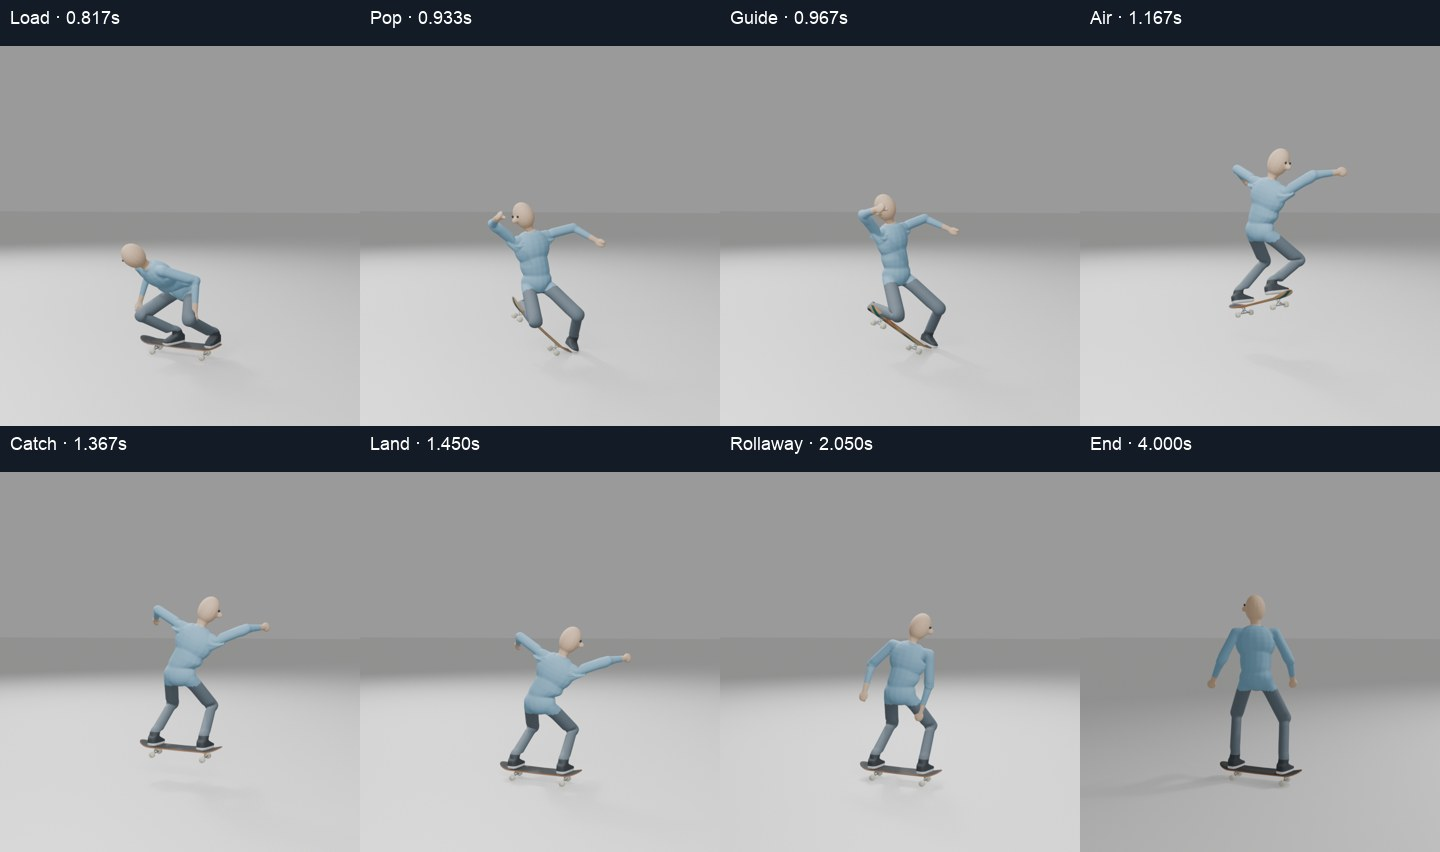
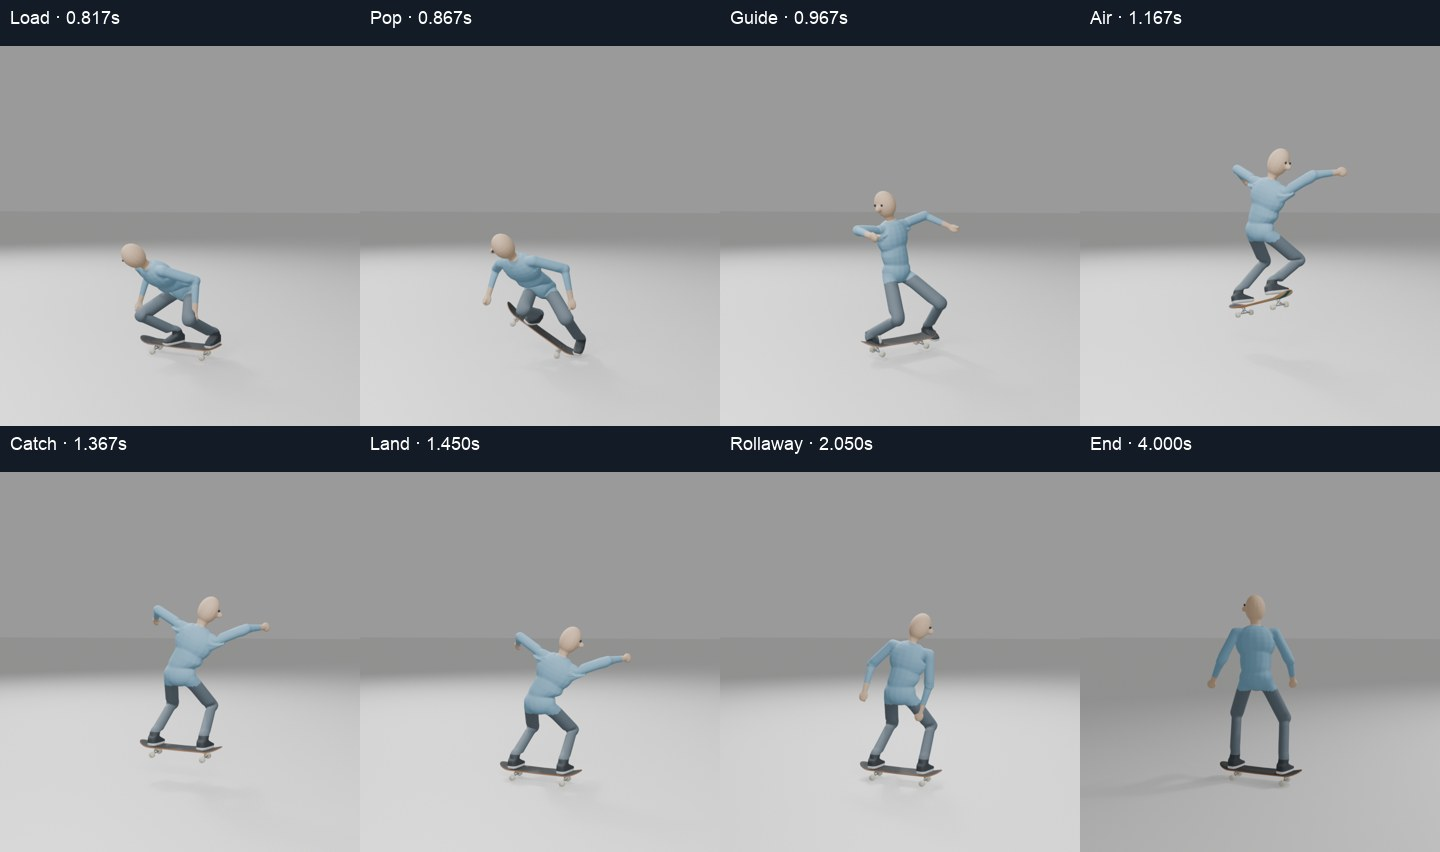
Fix BS180 early snap, front-bolt guide and open Goofy arm (#697)
* Open BS180 pop wind-up and soften early guide pitch

* Keep BS180 early guide over bolts with rising hips

* Refresh BS180 rig sheets for focused pop and wind-up review

* Show same-camera BS180 pop and guide comparisons

* Make BS180 snap early and level through the front-foot drag

* Show corrected BS180 mechanics at the original rejected times

---------

Changed region(s): [[0.3125, 0.2441, 0.4062, 0.4272], [0.5938, 0.3052, 0.6562, 0.4272], [0.5938, 0.2441, 0.6562, 0.3052]]

diff --git a/scripts/author_skate_bs180.py b/scripts/author_skate_bs180.py
@@ -47,7 +47,8 @@ def orientation(a, b, weight):
 
 def board(s, sf):
     yaw = turn_y(scalar(s['sourceYawKeys'], sf))
-    pitch = scalar(s['pitchKeys'], sf) * s['_strikePitch'] / 46
+    pitch = (scalar(s['earlyPitchKeys'], sf) if 'earlyPitchKeys' in s and sf < 54
+             else scalar(s['pitchKeys'], sf) * s['_strikePitch'] / 46)
     rotation = yaw @ turn_x(-pitch)
     f = float(np.clip((sf-s['pop'])/(s['land']-s['pop']), 0, 1))
     height = .5*s['referenceFlight']**2*s['gravity']*f*(1-f)
@@ -129,7 +130,17 @@ def arms(controls, s, sf):
         for part in ['upper', 'fore']:
             observed = unit(curve(times, [r['arms'][side][part] for r in rows], sf))
             authored = unit(s['balance'][side][part])
-            result[side].append(unit(observed*(1-weight)+authored*weight))
+            direction = unit(observed*(1-weight)+authored*weight)
+            # Cropped source hands cannot define a believable pop wind-up.
+            # This authored correction ends before the accepted Air pose.
+            pop_balance = s.get('popBalance')
+            if pop_balance and side in pop_balance:
+                start, full, held, finish = pop_balance['window']
+                pop_weight = smooth((sf-start)/(full-start))*(1-smooth((sf-held)/(finish-held)))
+                target = unit(pop_balance[side][part])
+                if pop_weight > 0:
+                    direction = unit(direction*(1-pop_weight)+target*pop_weight)
+            result[side].append(direction)
     return result
 
 
@@ -137,7 +148,12 @@ def sample(controls, s, sf):
     origin, rotation, height, source_yaw = board(s, sf)
     hip_turn = turn_y(scalar(s['sourceYawKeys'], sf)+scalar(s['hipWindupKeys'], sf))
     chest_turn = turn_y(scalar(s['sourceYawKeys'], sf)+scalar(s['chestWindupKeys'], sf))
-    pelvis = origin + UP*scalar(s['pelvisHeightKeys'], sf)
+    extension = s.get('popExtension')
+    lift = 0.
+    if extension:
+        start, full, held, finish = extension['window']
+        lift = extension['metres']*smooth((sf-start)/(full-start))*(1-smooth((sf-held)/(finish-held)))
+    pelvis = origin + UP*(scalar(s['pelvisHeightKeys'], sf)+lift)
     feet = {side: foot(s, sf, side) for side in ['Left', 'Right']}
     hips = {'Left': hip_turn @ np.array([0., 0., .09]),
             'Right': hip_turn @ np.array([0., 0., -.09])}
@@ -158,7 +174,13 @@ def sample(controls, s, sf):
     for side, (ankle, frame) in feet.items():
         hip = pelvis+hips[side]
         joints[side+'Hip'] = hip
-        joints[side+'Knee'] = limb(hip, ankle, .44, .43, hip_turn @ np.array([1., 0., .1 if side == 'Left' else -.1]))
+        pole = np.array([1., 0., .1 if side == 'Left' else -.1])
+        if side == 'Left' and 'frontKneeGuide' in s:
+            guide = s['frontKneeGuide']
+            start, full, held, finish = guide['window']
+            weight = smooth((sf-start)/(full-start))*(1-smooth((sf-held)/(finish-held)))
+            pole = pole*(1-weight)+np.array(guide['pole'])*weight
+        joints[side+'Knee'] = limb(hip, ankle, .44, .43, hip_turn @ pole)
         joints[side+'Ankle'] = ankle
         joints[side+'Toe'] = ankle+frame[:, 2]*math.sqrt(.14**2-.07**2)-frame[:, 1]*.07
     lean = math.radians(scalar(s['leanKeys'], sf))

diff --git a/docs/review-media/a2-bs180/README.md b/docs/review-media/a2-bs180/README.md
@@ -1,6 +1,6 @@
 # A2 normal BS180 — original rig review media
 
-[Private interactive comparison, 1× and ¼×](http://127.0.0.1:63761/a2-bs180/)
+[Private interactive comparison, 1× and ¼×](http://127.0.0.1:63761/a2-bs180-pop-arm/)
 uses the original rig, frozen skin and complete shaped thirteen-part skateboard.
 The source is the genuine plain normal Goofy BS180 by Wes Kremer in
 [The Berrics BATB6 Round1](https://www.youtube.com/watch?v=i8jPt6jHk98&t=44),
@@ -19,7 +19,9 @@ Air, Catch, actual Land, Rollaway and ordinary End.
 | Regular / anatomical Left foot leading | [Phase sheet](bs180-normal-physical-regular.jpg) | [Phase sheet](bs180-low-physical-regular.jpg) |
 | Goofy / anatomical Right foot leading | [Phase sheet](bs180-normal-physical-goofy.jpg) | [Phase sheet](bs180-low-physical-goofy.jpg) |
 
-| Physical mesh stance | Normal guide / catch / rollaway | Low guide / catch / rollaway |
+The contact sheets show a side-view Pop, then guide and rollaway foot details.
+
+| Physical mesh stance | Normal side pop / guide / rollaway | Low side pop / guide / rollaway |
 |---|---|---|
 | Regular | [Foot close-ups](bs180-normal-physical-regular-feet.jpg) | [Foot close-ups](bs180-low-physical-regular-feet.jpg) |
 | Goofy | [Foot close-ups](bs180-normal-physical-goofy-feet.jpg) | [Foot close-ups](bs180-low-physical-goofy-feet.jpg) |
@@ -29,28 +31,44 @@ against its board heading. This frozen proxy's requested native binding is
 opposite to its physical mesh label; the viewer reports both explicitly.
 
 The exact route is `bs-180-source-keyed-v1`: normal Ollie,
-Flip0/Shove0/Spin−180/Body0. Source board heading is removed once from all
-source joints, directions, toes, sole frames and board; live `NoseYaw`
-retains the actual body-and-board turn. A modest nose-up carry persists
-through source54, then levels before Catch58. Free shoes follow that pitch
-near the grip. Tail release50 and a distinct free-Air/press-end52.5 preserve
-the existing strict reach, floor and contact guards.
+Flip 0 / Shove 0 / Spin −180 / Body 0. Source board heading is removed once
+from every joint, toe, direction, sole frame and board. Live `NoseYaw` owns
+the single native body-and-board turn.
 
-The controlled actual Pad/full32Hz Step/Land/scorer replay selects Backside180
-in all four cases. The60Hz body retains36/36 normal-air frames and34/34 low-air
-frames, then reaches ordinary Ground at4s. The32 individual render phases
-come from those actual replay GLBs, with no render-only pose edits. Test-only
-approval and generated models remain private; raw `reviewed=false` is retained.
-The private browser review reaches4s at both1× and¼× in all four cases;
-28 phase selections use live decoded source video, and12 guide/catch/rollaway
-foot views have no browser runtime errors. Self-inspection confirms a loaded
-ground pose, an airborne rider/board half-turn with the board near the shoes,
-a bent-knee actual landing and ordinary upright recovery. These checks do
-not promote the pack or replace Claude's independent visual judgement.
+The board now snaps earlier and levels as the front upper slides toward the
+front bolts. The leading knee bends forward and down, with the pelvis above
+the board middle. Tail-sole release at source 48.5 follows snap 47.5; upper
+contact continues to 50.5, with distinct free-Air/press-end 52.5. The board
+rises while levelling. The accepted open Goofy wind-up and Air 54 onward,
+catch, actual landing and roll-away remain intact. These are authored
+contact/depth/timing corrections, not measured 3D motion.
 
-Source commits: `dd98d0e` and `017dcd9`.
+[Before/after at identical times](POP-GUIDE-REVIEW.md) shows the rejected and
+updated 0.933 s poses, the new actual snap at 0.867 s, then rejected/updated
+Guide at the same time for each height. The fixed camera is identical. The
+old rejected moment is retained explicitly; moving the phase button alone
+would not satisfy this comparison.
+
+The controlled actual Pad/full 32 Hz Step/Land/scorer replay selects
+Backside 180 in all four cases. The 60 Hz body retains 36/36 normal-air frames
+and 34/34 low-air frames, then reaches ordinary Ground at 4 s. The 32 phase
+renders and four extra original-time renders come directly from those GLBs,
+with the frozen original skin and shaped thirteen-part board. No render-only
+pose edit is applied. Test-only approval and generated packs/models remain
+private; raw `reviewed=false` is retained.
+
+Root's independent browser replay reaches 4 s in all four cases at 1× and
+¼×, with 28 decoded source phase selections and no runtime errors. Contact
+views are captured independently from those final models. The author inspected the same-camera original-rig
+frames: the early snap is diagonal, the original 0.933 s pose no longer
+perches on an upright nose, the guiding board is level and rising, and the
+later body-and-board half-turn, bent landing and settled recovery remain.
+These checks do not replace Claude's independent offline judgement.
+
+[Integrated source correction](https://github.com/Dj-Shortcut/rust-skate-mod/commit/8234e862cf5ae46d53e4cb9894e6a49b4194c0c4).
 Raw source pack SHA256:
[1 lines of base64/hex data omitted]
-Exact route freeze: `e3d34ec0436789073694b2ab6c5e03b994a15d78`.
-Claude owns the offline judgement and library status. Native Rust/Shadow
[1 lines of base64/hex data omitted]
+The rebuilt managed replay binds the frozen integrated source at
+`3f593c859c4be6afce08fad47ff28518ed6b4746`.
+Claude owns the library status and offline judgement. Native Rust/Shadow
 selection, controls and gameplay remain a separate pending gate.

diff --git a/assets/authored/animation/bs180-keyed/README.md b/assets/authored/animation/bs180-keyed/README.md
@@ -67,3 +67,22 @@ and the exact source route in normal and low flights, Regular and Goofy.
 The 60Hz body replay retains every airborne frame and reaches ordinary
 Ground at four seconds. Those managed checks do not constitute native Rust,
 Shadow or Claude's offline visual approval.
+
+## Pop/Guide review correction
+
+The board snaps earlier, then the front outer-upper slides toward the front
+bolts while the deck levels. The front knee bends forward and down; a short
+leg-driven extension keeps the pelvis above the board middle. The lead
+wind-up opens away from the head and rejoins the accepted balance before
+source frame 54. The original filmed body controls, camera and actual native
+body/board turn remain unchanged.
+
+Tail-sole release 48.5 follows snap 47.5, before upper-guide release 50.5 and
+distinct free-Air 52.5, so the board rises while it levels. The previously
+accepted Air 54 onward, catch, land, roll-away and open Goofy wind-up are
+retained. Source timing, leg depth and contacts are authored reconstructions,
+not measured 3D. Raw `reviewed=false` remains unchanged.
+
+Before/after media retain both the original 0.933 s moment and the new earlier
+snap. The result remains subject to Claude's independent visual judgement
+and the separate native Rust/Shadow gate.

diff --git a/docs/review-media/a2-bs180/POP-GUIDE-REVIEW.md b/docs/review-media/a2-bs180/POP-GUIDE-REVIEW.md
@@ -1,0 +1,20 @@
+# BS180 Pop/Guide follow-up for Claude
+
+All panels are original rig-only renders with the same fixed camera. Source
+video pixels are absent. Each row contains the rejected 0.933 s pose, the
+updated **same 0.933 s** pose, the new actual snap at 0.867 s, then old/new
+Guide at the same time. Normal and low flights are separate rows.
+
+- [Physical Regular, both heights](pop-guide-before-after-regular.jpg)
+- [Physical Goofy, both heights](pop-guide-before-after-goofy.jpg)
+
+The snap is earlier and diagonal; the original rejected moment is now
+levelled, with the guiding foot at the front bolts, knee forward/down and
+pelvis above the board middle. The levelled board rises through Guide.
+The open Goofy wind-up and accepted Air/catch/landing/recovery are retained.
+The source and animation remain unapproved pending Claude's independent
+judgement and the separate native Rust/Shadow gate.
+
+[Four-case source comparison, 1× and ¼×](http://127.0.0.1:63761/a2-bs180-pop-arm/).
+Raw remains `reviewed=false`; no native physics, scoring, stance sampler,
+limb limits, contact guards or camera were changed.
